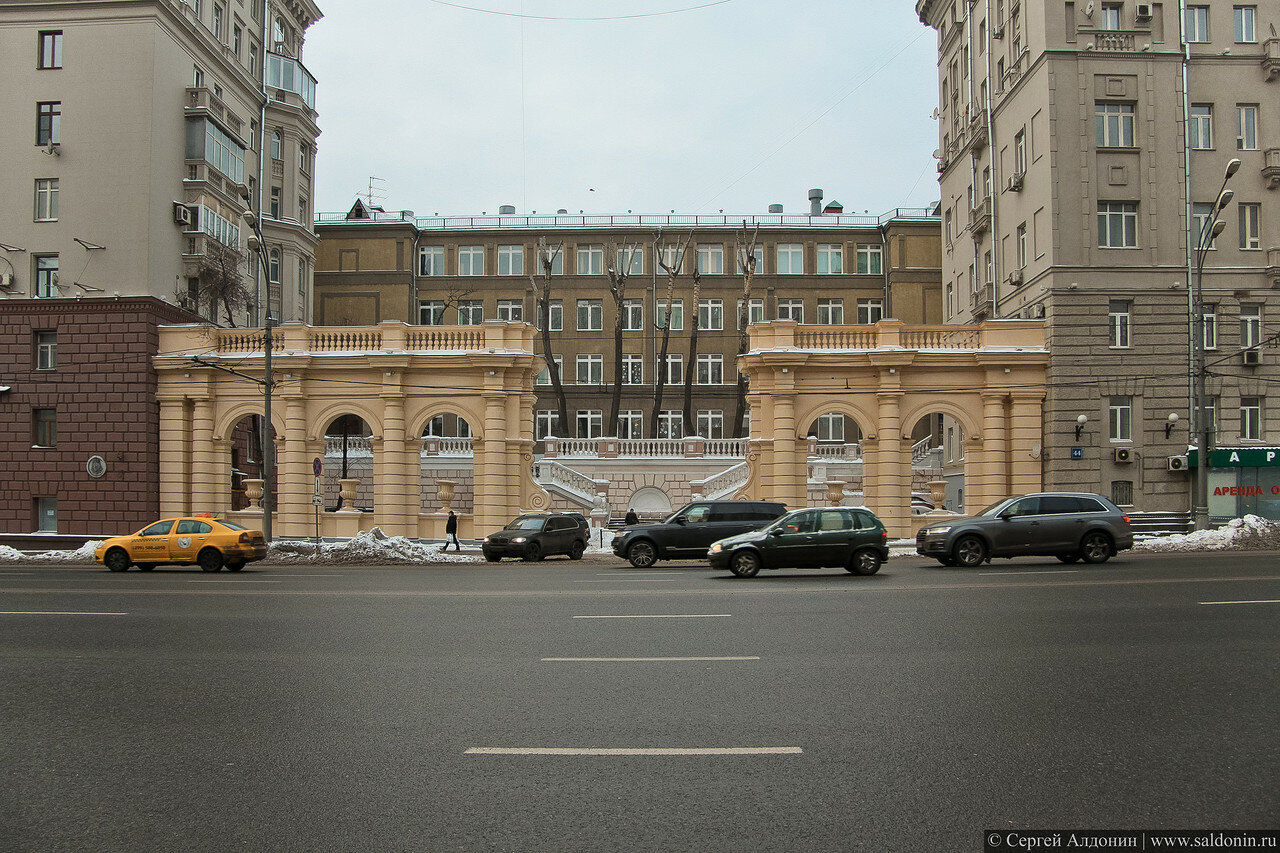
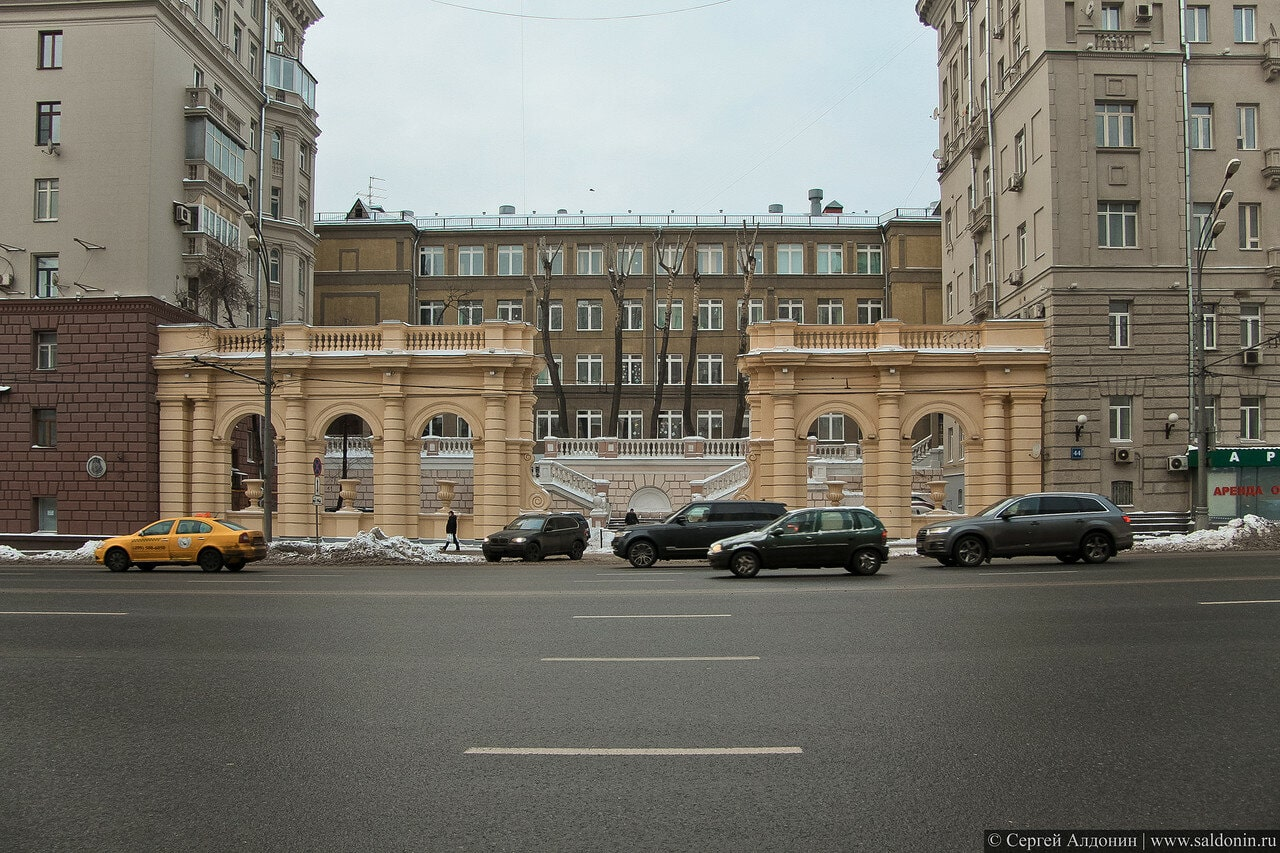
History

diff --git a/index.html b/index.html
@@ -38,7 +38,7 @@
     <hr>
     <p>Рождается советская архитектура в начале 20-х годов, в начале было слово и слово это было «Конструктивизм». На смену военному коммунизму приходит НЭП. Для понятия экономики большевики отступили от своих принципов и временно вернулись к капиталистической системе. Разрешили  частную торговлю излишками, где национализировали мелкую и среднюю промышленность, то бишь разрешили частникам все это дело арендовать. Ну, в общем экономическая свобода, вдобавок к этому в 1922 году закончилась Гражданская война - страна начала постепенно восстанавливаться.</p>
     
-    <img src="плакат 1.png" width="400" />
+    <img src="плакат 1.jpeg" width="400" />
     
     <br>
 
